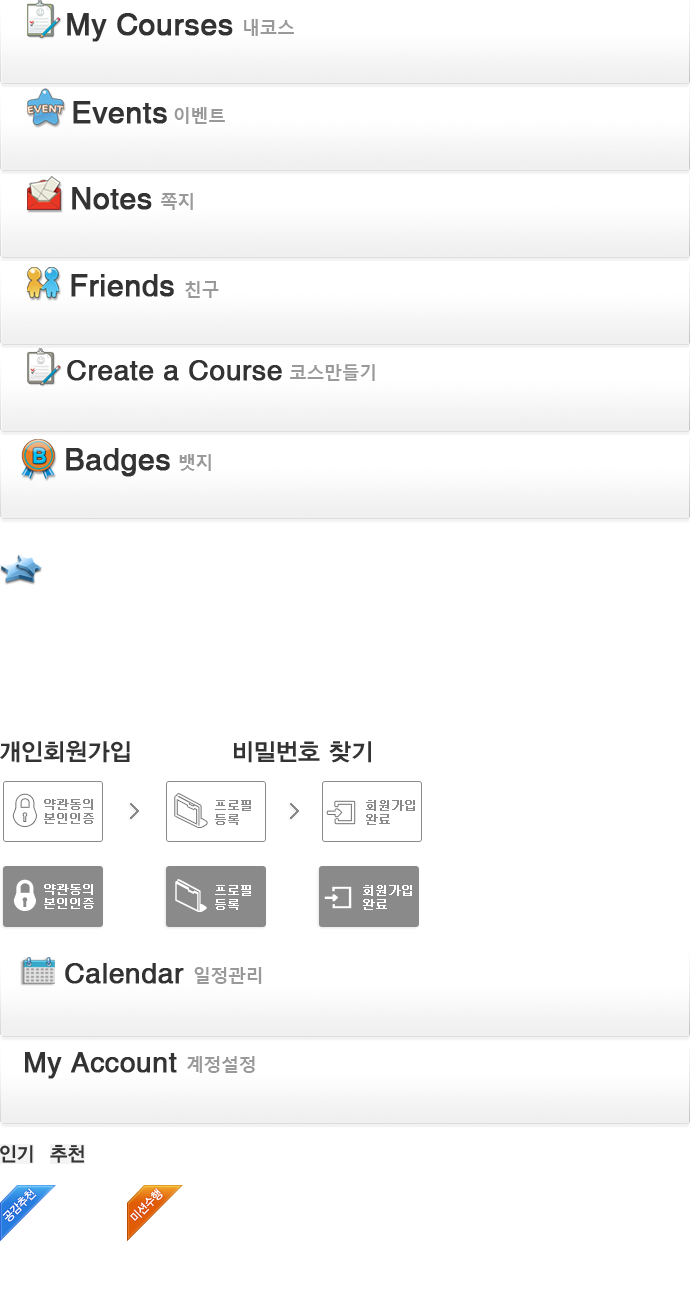
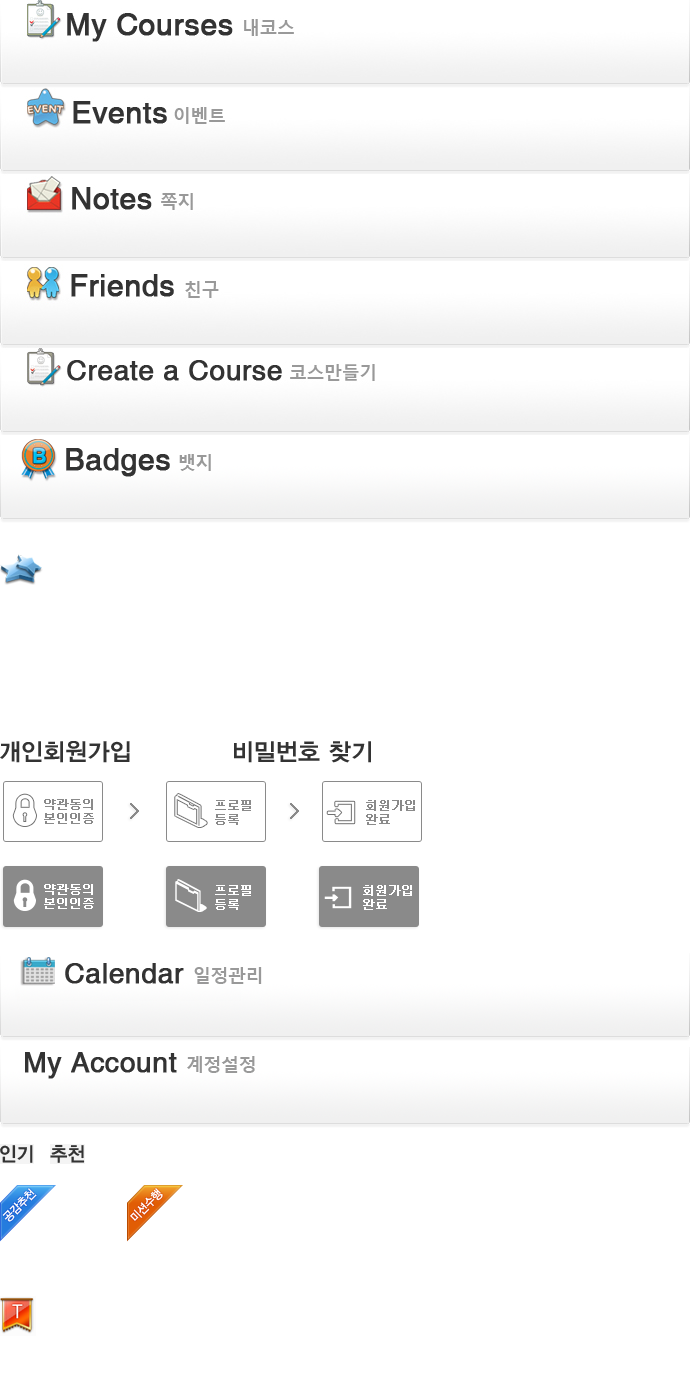
team images, css

diff --git a/WebContent/sera/css/page.css b/WebContent/sera/css/page.css
@@ -103,7 +103,8 @@
 .header_tit .tit_badge {background: url("../images/header.png") no-repeat scroll 0 -435px; height:38px; padding:45x 25px 0}
 .header_tit .tit_calendar {background: url("../images/header.png") no-repeat scroll 0 -952px; height:38px; padding:45px 25px 0}
 .header_tit .tit_account {background: url("../images/header.png") no-repeat scroll 0 -1040px; height:38px; padding:45px 25px 0}
-.header_tit .tit_dep2 {background: url("../images/header.png") no-repeat scroll 0 -553px; padding:5px 0 0 50px; margin: 20px 0 0; line-height:17px; min-height: 28px}
+.header_tit .tit_dep2 {background: url("../images/header.png") no-repeat scroll 0 -553px; padding:5px 0 0 50px; margin: 20px 0 0; line-height:17px; min-height: 30px}
+.header_tit .tit_dep2.team {background-position: 0 -1298px !important; padding:5px 0 0 50px}
 .header_tit .tit_dep2 h2, .header_tit h2 { font-size:14px; font-weight:bold; color:#454545}
 .title_srch {margin:25px 0 10px; overflow:hidden; vertical-align: middle; line-height:22px}
 /* Title - Course Admin */
